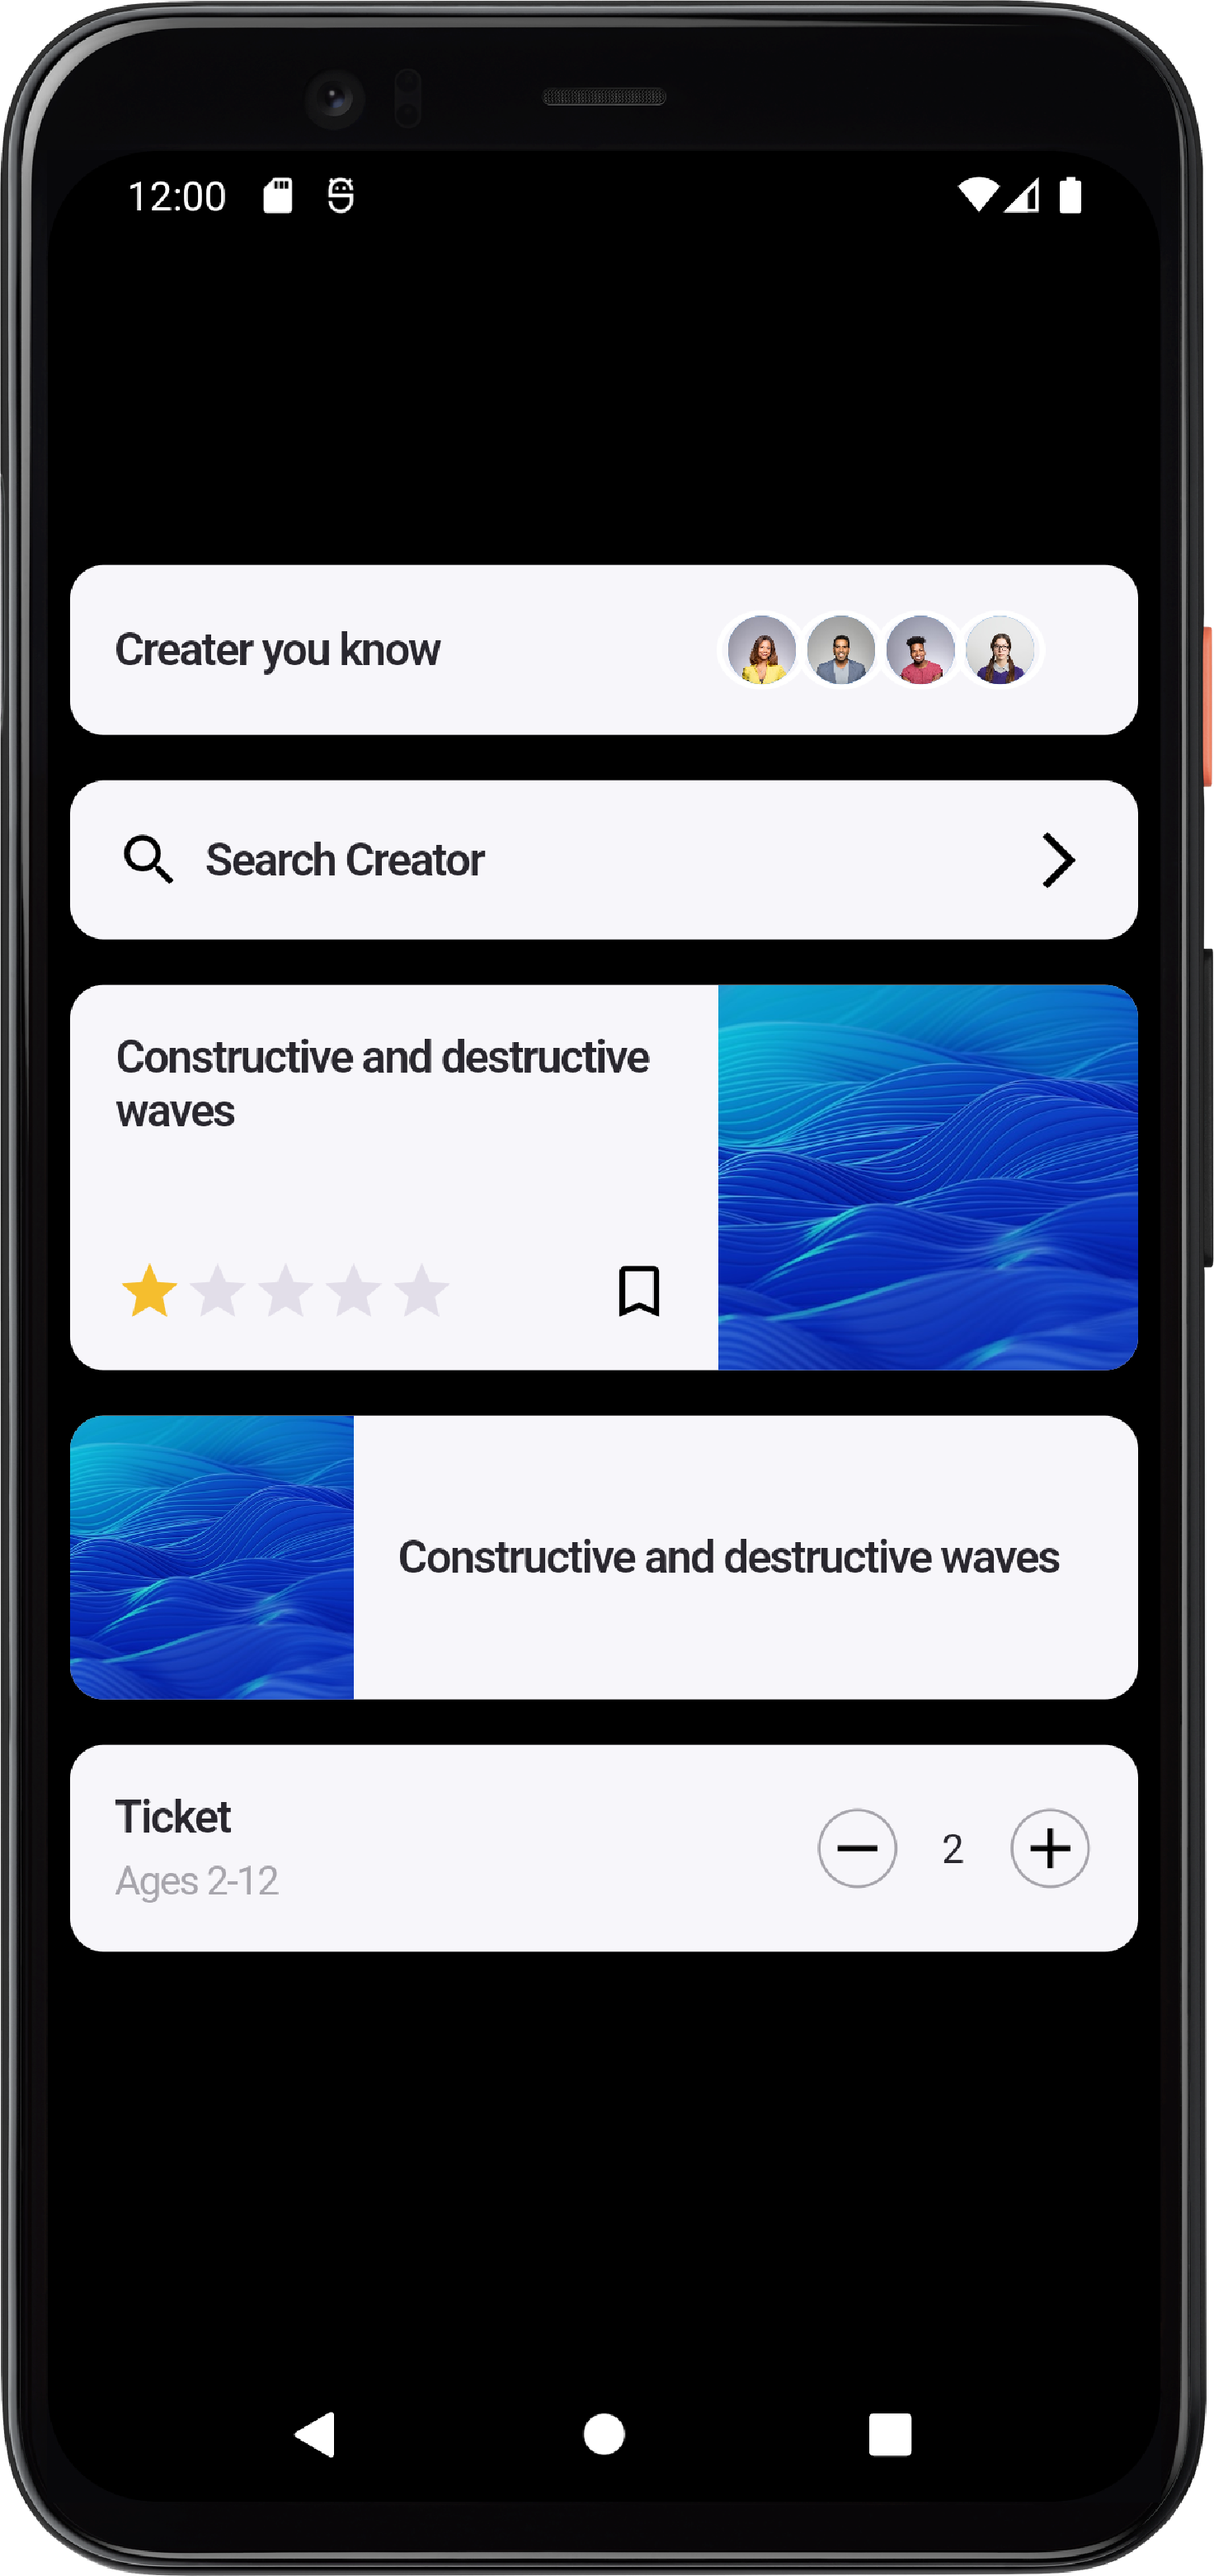
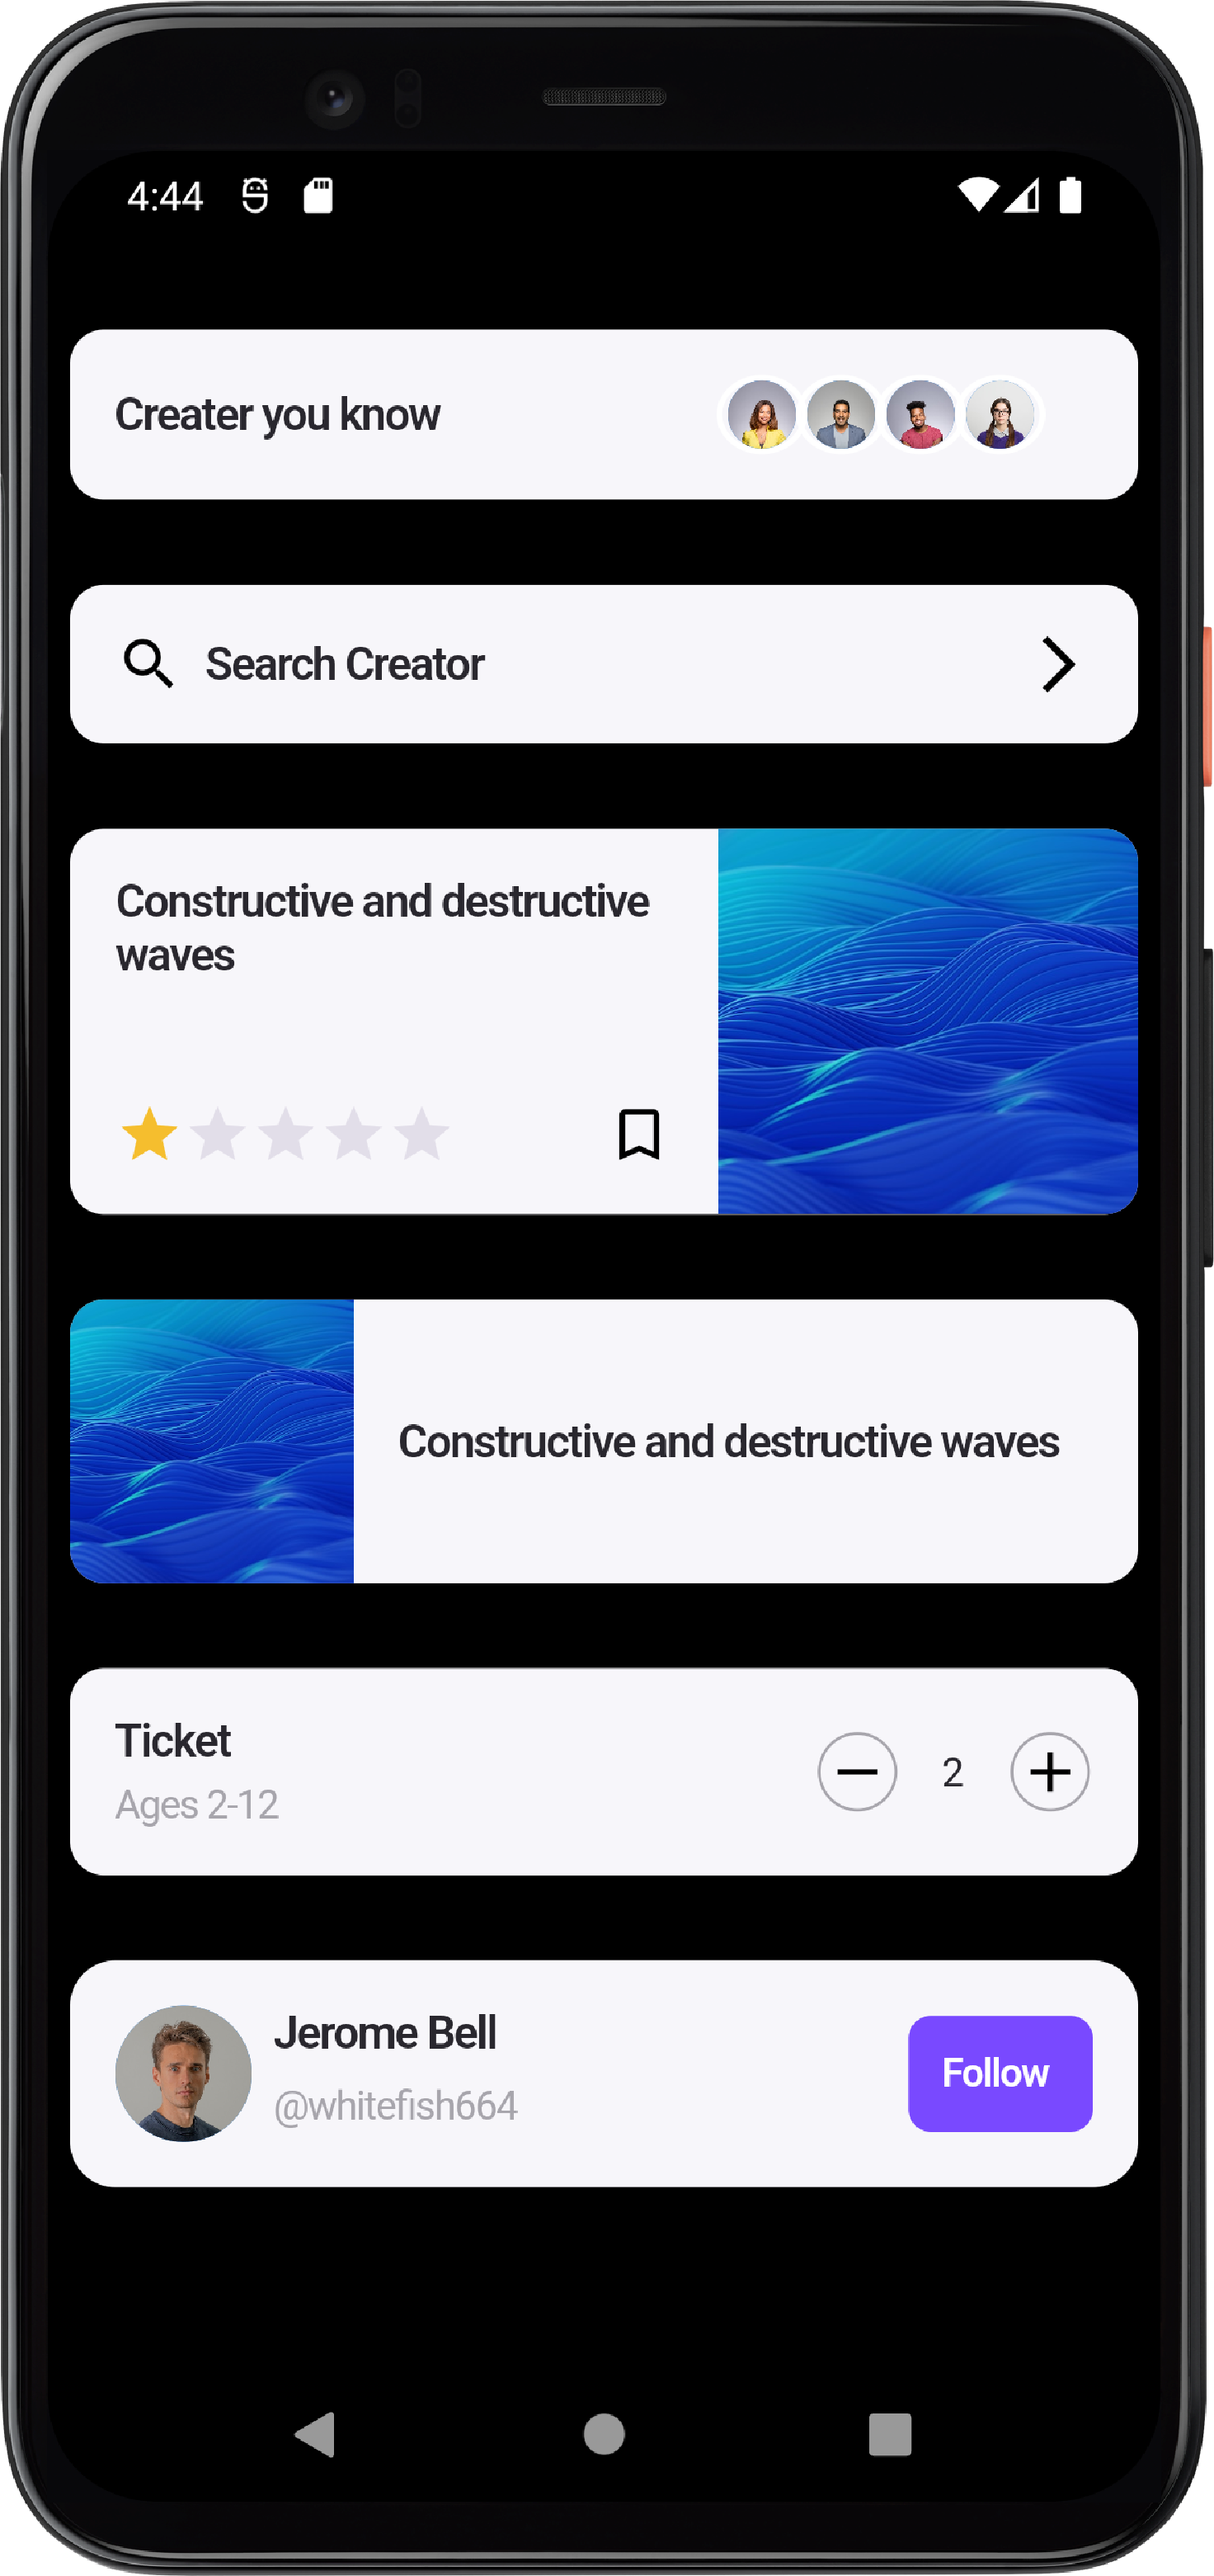
add card 6

diff --git a/lib/Cards/card_6.dart b/lib/Cards/card_6.dart
@@ -1,0 +1,75 @@
+import 'package:flutter/material.dart';
+import 'package:gap/gap.dart';
+class Card6 extends StatelessWidget {
+  const Card6({Key? key}) : super(key: key);
+
+  @override
+  Widget build(BuildContext context) {
+    return Container(
+      height: 80,
+      width: double.infinity,
+      padding: const EdgeInsets.all(16),
+      decoration: BoxDecoration(
+        color: const Color(0xFFF7F6FA),
+        borderRadius: BorderRadius.circular(16)
+      ),
+      child:  Row(
+        children: [
+          const SizedBox(
+            height: 48,
+            width: 48,
+            child: CircleAvatar(
+              backgroundImage: NetworkImage("https://s3-alpha-sig.figma.com/img/0e5d/8279/8e2becda16e2f3abc85e162b63a8d214?Expires=1704067200&Signature=m-pJeD~ylRMmgirPNxn9wu78ryYRNN8xngruQYngKINrixxDESYinftuHmb~9F~CQx2-GdfV0fRs~X1gW2IB-8IEFU-hF5Nv4Vw8c5MVQzGuGDP31efhIiT8l2QzxZxlLRjIuiX3d3HugZ-ov6JJOKYiDLhrABDu5PCiB4dxip93zNbONILiQ2RQwz-pibJOhAZvQ1oQ2FPLj26KbmdVBFvon~t8h79qZstV8eKeox0~v4h71uFRIFMDQKJ8WlqJq~s~exK9JZq7QXazdc9V9UXjd92~JacRpjPS4kG896j8dtbbDlvJCFghb9Fb81W~L8WclNPcC1bRWNRT1RwMjA__&Key-Pair-Id=APKAQ4GOSFWCVNEHN3O4"),
+
+            ),
+          ),
+          const Gap(8),
+          const Expanded(
+            child: Column(
+              crossAxisAlignment: CrossAxisAlignment.start,
+
+              children: [
+                Text("Jerome Bell", style: TextStyle(
+                  color: Color(0xFF29272E),
+                  fontSize: 16,
+                  fontFamily: 'Inter',
+                  fontWeight: FontWeight.w600,
+                  height: 0,
+                  letterSpacing: -0.64,
+                ),),
+                Gap(8),
+                Text("@whitefish664", style: TextStyle(
+                  color: Color(0xFFA7A5AC),
+                  fontSize: 14,
+                  fontFamily: 'Inter',
+                  fontWeight: FontWeight.w400,
+                  height: 0,
+                  letterSpacing: -0.56,
+                ),)
+              ],
+            ),
+          ),
+         const Gap(8),
+         Container(
+           width: 65,
+           height: 41,
+           padding: const EdgeInsets.all(12),
+           decoration: ShapeDecoration(
+             color: const Color(0xFF7949FF),
+             shape: RoundedRectangleBorder(borderRadius: BorderRadius.circular(8)),
+           ),
+           child: const Text("Follow", style: TextStyle(
+             color: Colors.white,
+             fontSize: 14,
+             fontFamily: 'Inter',
+             fontWeight: FontWeight.w600,
+             height: 0,
+             letterSpacing: -0.56,
+           ),),
+         )
+          
+        ],
+      ),
+    );
+  }
+}

diff --git a/lib/Screens/screen.dart b/lib/Screens/screen.dart
@@ -4,6 +4,7 @@ import 'package:flutter_ui_card_collections/Cards/card_2.dart';
 import 'package:flutter_ui_card_collections/Cards/card_3.dart';
 import 'package:flutter_ui_card_collections/Cards/card_4.dart';
 import 'package:flutter_ui_card_collections/Cards/card_5.dart';
+import 'package:flutter_ui_card_collections/Cards/card_6.dart';
 import 'package:gap/gap.dart';
 
 class Screen extends StatelessWidget {
@@ -19,14 +20,16 @@ class Screen extends StatelessWidget {
           mainAxisAlignment: MainAxisAlignment.center,
           children: [
             Card1(),
-            Gap(16),
+            Gap(30),
             Card2(),
-            Gap(16),
+            Gap(30),
             Card3(),
-            Gap(16),
+            Gap(30),
             Card4(),
-            Gap(16),
+            Gap(30),
             Card5(),
+            Gap(30),
+            Card6(),
           ],
         ),
       ),

diff --git a/lib/Views/view1.dart b/lib/Views/view1.dart
@@ -1,0 +1,16 @@
+import 'package:flutter/material.dart';
+class View1 extends StatelessWidget {
+  const View1({Key? key}) : super(key: key);
+
+  @override
+  Widget build(BuildContext context) {
+    return Scaffold(
+      backgroundColor: Colors.black,
+      body: Column(
+        children: [
+          Card()
+        ],
+      ),
+    );
+  }
+}

diff --git a/lib/components/card1.dart b/lib/components/card1.dart
@@ -1,0 +1,9 @@
+import 'package:flutter/material.dart';
+class Card1 extends StatelessWidget {
+  const Card1({Key? key}) : super(key: key);
+
+  @override
+  Widget build(BuildContext context) {
+    return const Placeholder();
+  }
+}

diff --git a/lib/main.dart b/lib/main.dart
@@ -1,5 +1,6 @@
 import 'package:flutter/material.dart';
 import 'package:flutter_ui_card_collections/Screens/screen.dart';
+import 'package:flutter_ui_card_collections/Views/view1.dart';
 
 void main() {
  runApp(const App());
